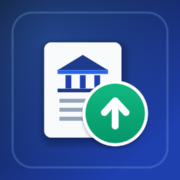
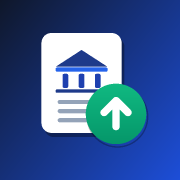
refactor: update document templates for manual entry
- Replace hardcoded execution dates/locations with fillable underscores
- Reset default form values for execution details
- Update draft storage version and UI cleanup

diff --git a/src/components/DocumentRenderer.tsx b/src/components/DocumentRenderer.tsx
@@ -113,11 +113,8 @@ export const DocumentRenderer: React.FC<DocumentRendererProps> = ({
   const newAcs = newShares * par;
   const increase = newAcs - oldAcs;
 
-  // Dates
-  const execDateObj = data.execDate ? new Date(data.execDate) : new Date();
-  const execDay = execDateObj.getDate();
-  const execMonthYear = execDateObj.toLocaleString('en-US', { month: 'long', year: 'numeric' });
-  const execYear = execDateObj.getFullYear();
+  // Series Year
+  const execYear = new Date().getFullYear();
 
   const shMeetingDateStr = data.shMeetingDate
     ? new Date(data.shMeetingDate).toLocaleDateString('en-US', {
@@ -1026,9 +1023,7 @@ export const DocumentRenderer: React.FC<DocumentRendererProps> = ({
     <div className="flow-root">
       <div className="text-left font-normal leading-snug mb-3">
         Republic of the Philippines )<br />
-        {data.execCity}{' '}
-        &nbsp;&nbsp;&nbsp;&nbsp;&nbsp;&nbsp;&nbsp;&nbsp;&nbsp;&nbsp;&nbsp;&nbsp;&nbsp;&nbsp;&nbsp;&nbsp;&nbsp;&nbsp;&nbsp;&nbsp;&nbsp;&nbsp;&nbsp;&nbsp;)
-        S.S.
+        _____________________ &nbsp;&nbsp;&nbsp;&nbsp;&nbsp;&nbsp;&nbsp;&nbsp;) S.S.
       </div>
 
       <h2 className="text-center font-bold text-[12pt] uppercase tracking-wide my-1">
@@ -1228,8 +1223,8 @@ export const DocumentRenderer: React.FC<DocumentRendererProps> = ({
         {/* Signature Page Measurements */}
         <div data-measure-id="uc-sig-intro" className="flow-root">
           <p className="indent-10 text-justify mb-4">
-            IN WITNESS WHEREOF, we have hereunto signed this Unified Certification this {execDay}{' '}
-            day of {execMonthYear} at {data.execCity}, Philippines.
+            IN WITNESS WHEREOF, we have hereunto signed this Unified Certification this _____ day of
+            _______________ {execYear} at ____________________, Philippines.
           </p>
         </div>
 
@@ -1255,8 +1250,8 @@ export const DocumentRenderer: React.FC<DocumentRendererProps> = ({
           className="flow-root border-t border-dashed border-black pt-4 mt-6"
         >
           <p className="text-justify mb-2">
-            SUBSCRIBED AND SWORN to before me this _____ day of _______________ {execYear} in{' '}
-            {data.execCity}, affiants exhibited to me their Competent Evidence of Identity:
+            SUBSCRIBED AND SWORN to before me this _____ day of _______________ {execYear} in
+            ____________________, affiants exhibited to me their Competent Evidence of Identity:
           </p>
         </div>
 
@@ -1378,8 +1373,8 @@ export const DocumentRenderer: React.FC<DocumentRendererProps> = ({
               case 'sigIntro':
                 return (
                   <p key={blkIdx} className="indent-10 text-justify mb-4">
-                    IN WITNESS WHEREOF, we have hereunto signed this Unified Certification this{' '}
-                    {execDay} day of {execMonthYear} at {data.execCity}, Philippines.
+                    IN WITNESS WHEREOF, we have hereunto signed this Unified Certification this
+                    _____ day of _______________ {execYear} at ____________________, Philippines.
                   </p>
                 );
 
@@ -1395,7 +1390,7 @@ export const DocumentRenderer: React.FC<DocumentRendererProps> = ({
                   <div key={blkIdx} className="border-t border-dashed border-black pt-4 mt-6">
                     <p className="text-justify mb-2">
                       SUBSCRIBED AND SWORN to before me this _____ day of _______________ {execYear}{' '}
-                      in {data.execCity}, affiants exhibited to me their Competent Evidence of
+                      in ____________________, affiants exhibited to me their Competent Evidence of
                       Identity:
                     </p>
                   </div>
@@ -1469,9 +1464,7 @@ export const DocumentRenderer: React.FC<DocumentRendererProps> = ({
       <ScaledA4Page scale={effectiveScale}>
         <div className="text-left font-normal leading-snug mb-5">
           Republic of the Philippines )<br />
-          {data.execCity}{' '}
-          &nbsp;&nbsp;&nbsp;&nbsp;&nbsp;&nbsp;&nbsp;&nbsp;&nbsp;&nbsp;&nbsp;&nbsp;&nbsp;&nbsp;&nbsp;&nbsp;&nbsp;&nbsp;&nbsp;&nbsp;&nbsp;&nbsp;&nbsp;&nbsp;)
-          S.S.
+          _____________________ &nbsp;&nbsp;&nbsp;&nbsp;&nbsp;&nbsp;&nbsp;&nbsp;) S.S.
         </div>
 
         <h2 className="text-center font-bold text-[12pt] uppercase tracking-wide my-2">
@@ -1559,8 +1552,8 @@ export const DocumentRenderer: React.FC<DocumentRendererProps> = ({
 
               <p className="font-bold mb-2">KNOW ALL PERSONS BY THESE PRESENTS:</p>
               <p className="indent-10 text-justify mb-2">
-                This Subscription Contract is made and entered this {execDay} day of {execMonthYear}
-                , at {data.execCity}, Philippines, by and between:
+                This Subscription Contract is made and entered this _____ day of _______________
+                {' '}{execYear}, at ____________________, Philippines, by and between:
               </p>
               <p className="indent-10 text-justify mb-2">
                 <b>{data.corpName.toUpperCase()}</b>, a corporation organized and existing under the
@@ -1640,8 +1633,8 @@ export const DocumentRenderer: React.FC<DocumentRendererProps> = ({
             {/* Page 2: Subscription Contract Signatures (Separate Following Page) */}
             <ScaledA4Page scale={effectiveScale}>
               <p className="indent-10 text-justify mb-4">
-                IN WITNESS WHEREOF, the parties have hereunto set their hands this {execDay} day of{' '}
-                {execMonthYear} at {data.execCity}, Philippines.
+                IN WITNESS WHEREOF, the parties have hereunto set their hands this _____ day of
+                _______________ {execYear} at ____________________, Philippines.
               </p>
 
               <table className="w-full border-none my-8">
@@ -1682,12 +1675,12 @@ export const DocumentRenderer: React.FC<DocumentRendererProps> = ({
                 <div className="text-center font-bold mb-3">ACKNOWLEDGMENT</div>
                 <div className="text-left font-normal leading-snug mb-4">
                   Republic of the Philippines )<br />
-                  City of {data.execCity} ) S.S.
+                  _____________________ &nbsp;&nbsp;&nbsp;&nbsp;&nbsp;&nbsp;&nbsp;&nbsp;) S.S.
                 </div>
                 <p className="indent-10 text-justify mb-3">
-                  BEFORE ME, a Notary Public in and for {data.execCity}, Philippines, this _____ day
-                  of _______________ {execYear}, personally appeared the following persons with their
-                  respective Competent Evidence of Identity:
+                  BEFORE ME, a Notary Public in and for ____________________, Philippines, this
+                  _____ day of _______________ {execYear}, personally appeared the following persons
+                  with their respective Competent Evidence of Identity:
                 </p>
                 {(() => {
                   const rawAffiants = [
@@ -1780,8 +1773,8 @@ export const DocumentRenderer: React.FC<DocumentRendererProps> = ({
 
               <p className="font-bold mb-2">KNOW ALL MEN BY THESE PRESENTS:</p>
               <p className="indent-10 text-justify mb-2">
-                This Deed of Assignment made and executed on this {execDay} day of {execMonthYear},
-                by and between:
+                This Deed of Assignment made and executed on this _____ day of _______________
+                {' '}{execYear}, by and between:
               </p>
               <p className="indent-10 text-justify mb-2">
                 <b>{sub.name.toUpperCase()}</b>, of legal age, {sub.nationality}, and with
@@ -1840,8 +1833,8 @@ export const DocumentRenderer: React.FC<DocumentRendererProps> = ({
             <ScaledA4Page scale={effectiveScale}>
               <p className="indent-10 text-justify mb-4">
                 IN WITNESS WHEREOF, the parties have caused this Deed to be signed in their
-                respective names this {execDay} day of {execMonthYear} at {data.execCity},
-                Philippines.
+                respective names this _____ day of _______________ {execYear} at
+                ____________________, Philippines.
               </p>
 
               <table className="w-full border-none my-6">
@@ -1892,9 +1885,7 @@ export const DocumentRenderer: React.FC<DocumentRendererProps> = ({
                 <div className="text-center font-bold mb-3">ACKNOWLEDGMENT</div>
                 <div className="text-left font-normal leading-snug mb-4">
                   REPUBLIC OF THE PHILIPPINES ]<br />
-                  {data.execCity.toUpperCase()}{' '}
-                  &nbsp;&nbsp;&nbsp;&nbsp;&nbsp;&nbsp;&nbsp;&nbsp;&nbsp;&nbsp;&nbsp;&nbsp;&nbsp;&nbsp;&nbsp;&nbsp;&nbsp;&nbsp;&nbsp;&nbsp;&nbsp;&nbsp;&nbsp;&nbsp;]
-                  S.S.
+                  _____________________ &nbsp;&nbsp;&nbsp;&nbsp;&nbsp;&nbsp;&nbsp;&nbsp;] S.S.
                 </div>
                 <p className="indent-10 text-justify mb-3">
                   BEFORE ME, a Notary Public for and in the above-named jurisdiction on this _____

diff --git a/src/utils/wordExport.ts b/src/utils/wordExport.ts
@@ -11,11 +11,8 @@ export function exportToWordA4(data: SecFormData): void {
   const newAcs = newShares * par;
   const increase = newAcs - oldAcs;
 
-  // Dates
-  const execDateObj = data.execDate ? new Date(data.execDate) : new Date();
-  const execDay = execDateObj.getDate();
-  const execMonthYear = execDateObj.toLocaleString('en-US', { month: 'long', year: 'numeric' });
-  const execYear = execDateObj.getFullYear();
+  // Series Year
+  const execYear = new Date().getFullYear();
 
   const shMeetingDateStr = data.shMeetingDate
     ? new Date(data.shMeetingDate).toLocaleDateString('en-US', {
@@ -329,7 +326,7 @@ export function exportToWordA4(data: SecFormData): void {
   const doc1Body = `
     <div class="venue-block">
       Republic of the Philippines )<br />
-      ${data.execCity} &nbsp;&nbsp;&nbsp;&nbsp;&nbsp;&nbsp;&nbsp;&nbsp;&nbsp;&nbsp;&nbsp;&nbsp;&nbsp;&nbsp;&nbsp;&nbsp;&nbsp;&nbsp;&nbsp;&nbsp;&nbsp;&nbsp;&nbsp;&nbsp;) S.S.
+      _____________________ &nbsp;&nbsp;&nbsp;&nbsp;&nbsp;&nbsp;&nbsp;&nbsp;) S.S.
     </div>
 
     <h2>UNIFIED CERTIFICATION FOR INCREASE IN AUTHORIZED CAPITAL STOCK OF</h2>
@@ -444,7 +441,7 @@ export function exportToWordA4(data: SecFormData): void {
   // === DOCUMENT 1: UNIFIED CERTIFICATION SIGNATURE PAGE (SEPARATE PAGE) ===
   const doc1Signatures = `
     <p style="text-indent: 36pt; text-align: justify;">
-      IN WITNESS WHEREOF, we have hereunto signed this Unified Certification this ${execDay} day of ${execMonthYear} at ${data.execCity}, Philippines.
+      IN WITNESS WHEREOF, we have hereunto signed this Unified Certification this _____ day of _______________ ${execYear} at ____________________, Philippines.
     </p>
 
     <table style="width: 100%; border: none; margin-top: 14pt; page-break-inside: auto;">
@@ -479,7 +476,7 @@ export function exportToWordA4(data: SecFormData): void {
     <br /><br />
     <div style="border-top: 1pt dashed #000; padding-top: 14pt; margin-top: 16pt;">
       <p style="text-align: justify;">
-        SUBSCRIBED AND SWORN to before me this _____ day of _______________ ${execYear} in ${data.execCity}, affiants exhibited to me their Competent Evidence of Identity:
+        SUBSCRIBED AND SWORN to before me this _____ day of _______________ ${execYear} in ____________________, affiants exhibited to me their Competent Evidence of Identity:
       </p>
       <table class="doc-table" style="width: 85%; margin: 10pt 0; page-break-inside: auto;">
         <tbody>
@@ -507,7 +504,7 @@ export function exportToWordA4(data: SecFormData): void {
   const doc2Treasurer = `
     <div class="venue-block">
       Republic of the Philippines )<br />
-      ${data.execCity} &nbsp;&nbsp;&nbsp;&nbsp;&nbsp;&nbsp;&nbsp;&nbsp;&nbsp;&nbsp;&nbsp;&nbsp;&nbsp;&nbsp;&nbsp;&nbsp;&nbsp;&nbsp;&nbsp;&nbsp;&nbsp;&nbsp;&nbsp;&nbsp;) S.S.
+      _____________________ &nbsp;&nbsp;&nbsp;&nbsp;&nbsp;&nbsp;&nbsp;&nbsp;) S.S.
     </div>
 
     <h2>TREASURER&rsquo;S AFFIDAVIT</h2>
@@ -566,7 +563,7 @@ export function exportToWordA4(data: SecFormData): void {
       <br />
       <p><b>KNOW ALL PERSONS BY THESE PRESENTS:</b></p>
       <p style="text-indent: 36pt; text-align: justify;">
-        This Subscription Contract is made and entered this ${execDay} day of ${execMonthYear}, at ${data.execCity}, Philippines, by and between:
+        This Subscription Contract is made and entered this _____ day of _______________ ${execYear}, at ____________________, Philippines, by and between:
       </p>
       <p style="text-indent: 36pt; text-align: justify;">
         <b>${data.corpName.toUpperCase()}</b>, a corporation organized and existing under the laws of the Philippines, with principal office address at ${data.principalAddress}, duly represented by its President, <b>${presName}</b>, and Treasurer, <b>${treasName}</b> (referred to herein as &ldquo;the Corporation&rdquo;);
@@ -616,7 +613,7 @@ export function exportToWordA4(data: SecFormData): void {
 
     const signPart = `
       <p style="text-indent: 36pt; text-align: justify;">
-        IN WITNESS WHEREOF, the parties hereto have hereunto set their hands this ${execDay} day of ${execMonthYear} at ${data.execCity}, Philippines.
+        IN WITNESS WHEREOF, the parties hereto have hereunto set their hands this _____ day of _______________ ${execYear} at ____________________, Philippines.
       </p>
       <br /><br />
       <table style="width: 100%; border: none;">
@@ -643,10 +640,10 @@ export function exportToWordA4(data: SecFormData): void {
         <div style="text-align: center; font-weight: bold; margin-bottom: 10pt;">ACKNOWLEDGMENT</div>
         <div class="venue-block">
           Republic of the Philippines )<br />
-          City of ${data.execCity} ) S.S.
+          _____________________ &nbsp;&nbsp;&nbsp;&nbsp;&nbsp;&nbsp;&nbsp;&nbsp;) S.S.
         </div>
         <p style="text-indent: 36pt; text-align: justify;">
-          BEFORE ME, a Notary Public in and for ${data.execCity}, Philippines, this _____ day of _______________ ${execYear}, personally appeared the following persons with their respective Competent Evidence of Identity:
+          BEFORE ME, a Notary Public in and for ____________________, Philippines, this _____ day of _______________ ${execYear}, personally appeared the following persons with their respective Competent Evidence of Identity:
         </p>
         <table class="doc-table" style="width: 85%; margin: 10pt 0; page-break-inside: auto;">
           <tbody>
@@ -718,7 +715,7 @@ export function exportToWordA4(data: SecFormData): void {
       <br />
       <p><b>KNOW ALL MEN BY THESE PRESENTS:</b></p>
       <p style="text-indent: 36pt; text-align: justify;">
-        This Deed of Assignment is made and executed on this ${execDay} day of ${execMonthYear}, by and between:
+        This Deed of Assignment is made and executed on this _____ day of _______________ ${execYear}, by and between:
       </p>
       <p style="text-indent: 36pt; text-align: justify;">
         <b>${sub.name.toUpperCase()}</b>, of legal age, ${sub.nationality}, and with residential address at ${sub.residentialAddress}, hereinafter referred to as the &ldquo;<b>ASSIGNOR</b>&rdquo;;
@@ -747,7 +744,7 @@ export function exportToWordA4(data: SecFormData): void {
 
     const signPart = `
       <p style="text-indent: 36pt; text-align: justify;">
-        IN WITNESS WHEREOF, the parties have caused this Deed of Assignment to be signed in their respective names this ${execDay} day of ${execMonthYear} at ${data.execCity}, Philippines.
+        IN WITNESS WHEREOF, the parties have caused this Deed of Assignment to be signed in their respective names this _____ day of _______________ ${execYear} at ____________________, Philippines.
       </p>
       <br /><br />
       <table style="width: 100%; border: none;">
@@ -780,7 +777,7 @@ export function exportToWordA4(data: SecFormData): void {
         <div style="text-align: center; font-weight: bold; margin-bottom: 10pt;">ACKNOWLEDGMENT</div>
         <div class="venue-block">
           REPUBLIC OF THE PHILIPPINES ]<br />
-          ${data.execCity.toUpperCase()} &nbsp;&nbsp;&nbsp;&nbsp;&nbsp;&nbsp;&nbsp;&nbsp;&nbsp;&nbsp;&nbsp;&nbsp;&nbsp;&nbsp;&nbsp;&nbsp;&nbsp;&nbsp;&nbsp;&nbsp;&nbsp;&nbsp;&nbsp;&nbsp;] S.S.
+          _____________________ &nbsp;&nbsp;&nbsp;&nbsp;&nbsp;&nbsp;&nbsp;&nbsp;] S.S.
         </div>
         <p style="text-indent: 36pt; text-align: justify;">
           BEFORE ME, a Notary Public for and in the above-named jurisdiction on this _____ day of _______________ ${execYear}, personally appeared the following persons with their respective Competent Evidence of Identity:

diff --git a/src/App.tsx b/src/App.tsx
@@ -40,7 +40,7 @@ import { CompanyProfileModal } from './components/CompanyProfileModal';
 
 const PROFILES_STORAGE_KEY = 'sec-company-profiles-v1';
 const ACTIVE_PROFILE_KEY = 'sec-active-profile-id-v1';
-const ACTIVE_DRAFT_KEY = 'sec-active-draft-v1';
+const ACTIVE_DRAFT_KEY = 'sec-active-draft-v2';
 
 export default function App() {
   const [formData, setFormData] = useState<SecFormData>(() => {
@@ -495,7 +495,7 @@ export default function App() {
             <img
               src={appIconUrl}
               alt="SEC Capital Increase Icon"
-              className="w-9 h-9 sm:w-10 sm:h-10 rounded-xl shadow-sm shrink-0 border border-white/10"
+              className="w-9 h-9 sm:w-10 sm:h-10 rounded-xl shadow-sm shrink-0"
             />
             <div className="min-w-0">
               <h1 className="text-sm sm:text-base font-bold tracking-tight text-white leading-tight truncate">
@@ -710,7 +710,7 @@ export default function App() {
               <div className="flex flex-wrap items-center justify-between gap-2 mb-4 border-b border-slate-100 dark:border-slate-800 pb-3">
                 <div className="flex items-center gap-2 text-blue-900 dark:text-blue-300 font-semibold text-sm sm:text-base">
                   <Building2 className="w-5 h-5 text-blue-600 dark:text-blue-400 shrink-0" />
-                  <span>1. Corporate Information &amp; Venue</span>
+                  <span>1. Corporate Information</span>
                 </div>
 
                 <div className="flex flex-wrap items-center gap-1.5 sm:gap-2">
@@ -882,31 +882,6 @@ export default function App() {
                     onChange={e => updateField('principalAddress', e.target.value)}
                     className="w-full px-3 py-2 text-sm border border-slate-300 rounded-lg focus:outline-none focus:ring-2 focus:ring-blue-500"
                     placeholder="Unit, Building, Street, Barangay, City, Province"
-                  />
-                </div>
-
-                <div>
-                  <label className="block text-xs font-semibold text-slate-700 mb-1">
-                    City / Venue of Execution <span className="text-slate-400 font-normal">(Aligned Left in Docs)</span>
-                  </label>
-                  <input
-                    type="text"
-                    value={formData.execCity}
-                    onChange={e => updateField('execCity', e.target.value)}
-                    className="w-full px-3 py-2 text-sm border border-slate-300 rounded-lg focus:outline-none focus:ring-2 focus:ring-blue-500"
-                    placeholder="e.g. Makati City"
-                  />
-                </div>
-
-                <div>
-                  <label className="block text-xs font-semibold text-slate-700 mb-1">
-                    Date of Execution
-                  </label>
-                  <input
-                    type="date"
-                    value={formData.execDate}
-                    onChange={e => updateField('execDate', e.target.value)}
-                    className="w-full px-3 py-2 text-sm border border-slate-300 rounded-lg focus:outline-none focus:ring-2 focus:ring-blue-500"
                   />
                 </div>
               </div>

diff --git a/src/utils/initialData.ts b/src/utils/initialData.ts
@@ -4,8 +4,8 @@ export const initialFormData: SecFormData = {
   corpName: 'ACME ENTERPRISES PHILIPPINES INC.',
   formerCorpName: '',
   principalAddress: 'Unit 1802, One Ayala Tower, Ayala Avenue, Makati City, Metro Manila',
-  execCity: 'Makati City',
-  execDate: new Date().toISOString().split('T')[0],
+  execCity: '',
+  execDate: '',
 
   parValue: 100.0,
   oldShares: 10000,
@@ -39,7 +39,7 @@ export const initialFormData: SecFormData = {
     'at the principal office',
   amendedArticle: 'Article VII – Authorized Capital Stock',
   chkSec37: false,
-  chkSec38: true,
+  chkSec38: false,
   chkSec42: false,
 
   presName: 'JUAN DELA CRUZ',
@@ -108,7 +108,7 @@ export function createBlankFormData(): SecFormData {
     formerCorpName: '',
     principalAddress: '',
     execCity: '',
-    execDate: today,
+    execDate: '',
 
     parValue: 100.0,
     oldShares: 0,
@@ -133,7 +133,7 @@ export function createBlankFormData(): SecFormData {
     meetingFormat: 'at the principal office',
     amendedArticle: 'Article VII – Authorized Capital Stock',
     chkSec37: false,
-    chkSec38: true,
+    chkSec38: false,
     chkSec42: false,
 
     presName: '',
